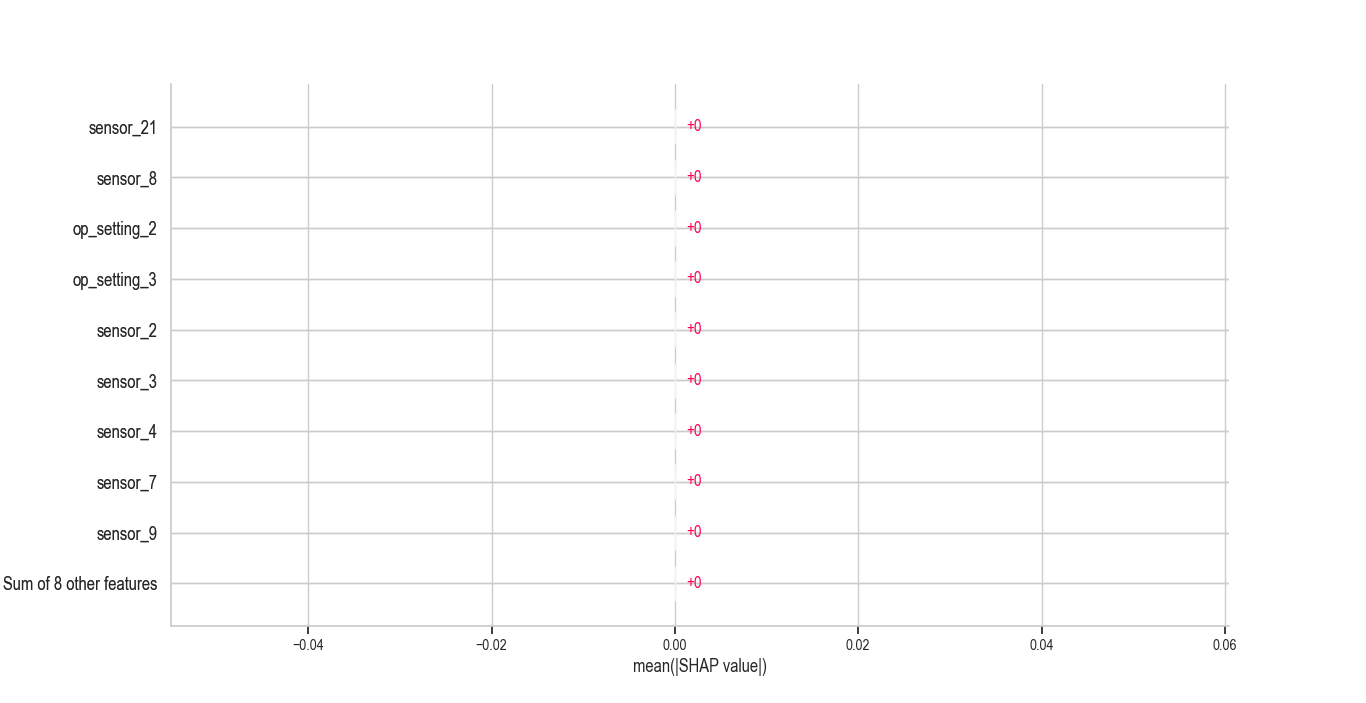
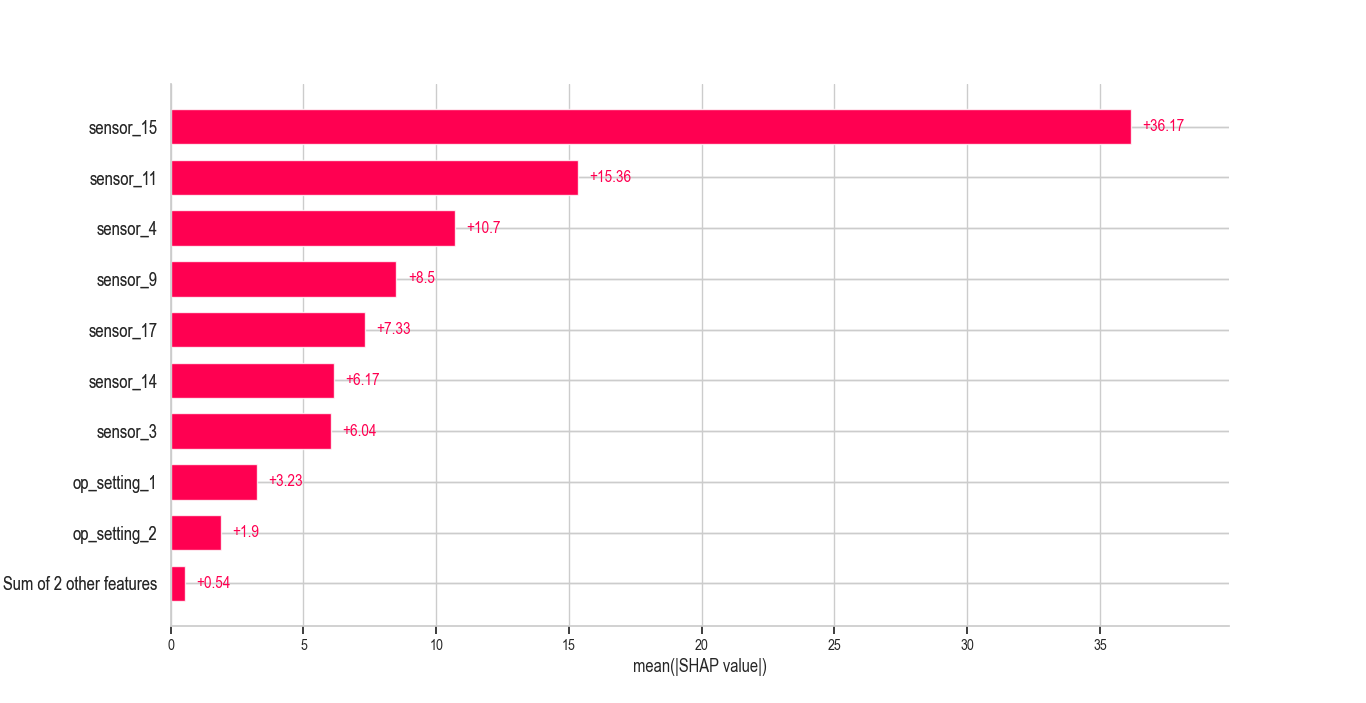
completed model and added api

diff --git a/rul_xgboost.py b/rul_xgboost.py
@@ -14,24 +14,21 @@ from xgboost import XGBRegressor
 from sklearn.model_selection import train_test_split
 from sklearn.metrics import mean_squared_error, mean_absolute_error, r2_score
 from sklearn.feature_selection import VarianceThreshold
-import shap          
-
-data = 'train_FD002.txt'
+import shap
 
 sns.set(style='whitegrid')
 
-# Set path to your train file (adjust as needed)
+# ====================================
+# 📁 Step 2: Load and Prepare Data
+# ====================================
+data = 'train_FD002.txt'
 DATA_TRAIN_PATH = f"data/{data}"
 
-# NASA C-MAPSS column structure
 sensor_cols = [f"sensor_{i}" for i in range(1, 22)]
 op_cols = ["op_setting_1", "op_setting_2", "op_setting_3"]
 cols = ["unit", "time"] + op_cols + sensor_cols
 
-# Load dataset
 sensor_df = pd.read_csv(DATA_TRAIN_PATH, sep="\s+", header=None, names=cols)
-
-# Compute RUL from max cycle
 rul_per_unit = sensor_df.groupby("unit")["time"].transform("max")
 sensor_df["RUL"] = rul_per_unit - sensor_df["time"]
 
@@ -39,17 +36,11 @@ print("✅ Data loaded and RUL computed:")
 print(sensor_df.head())
 
 # ====================================
-# 📊 Step 2: Exploratory Data Analysis
+# 📊 Step 3: Exploratory Data Analysis
 # ====================================
-# Assume `sensor_df` already exists and includes ['unit', 'time', 'op_setting_*', 'sensor_*', 'RUL']
-
-# Display basic info
 print("📊 Dataset Shape:", sensor_df.shape)
 print("🧾 Columns:", sensor_df.columns.tolist())
-print("\n📌 Sample Data:")
-print(sensor_df.head())
 
-# Sensor and operational columns
 sensor_cols = [col for col in sensor_df.columns if col.startswith("sensor_")]
 op_cols = [col for col in sensor_df.columns if col.startswith("op_setting")]
 
@@ -88,9 +79,6 @@ plt.legend()
 plt.grid(True)
 plt.show()
 
-# ====================================
-# 🔍 Step 3: Feature Selection
-# ====================================
 # Correlation Heatmap
 sensor_corr_df = sensor_df[sensor_cols + ['RUL']].corr()
 plt.figure(figsize=(14, 10))
@@ -99,68 +87,42 @@ plt.title("🔍 Sensor & RUL Correlation Heatmap")
 plt.tight_layout()
 plt.show()
 
-# Drop low-variance (flat) sensors
-var_thresh = 1e-4
+# ====================================
+# 🔍 Step 4: Feature Selection
+# ====================================
+var_thresh = 1e-6
 selector = VarianceThreshold(threshold=var_thresh)
 selector.fit(sensor_df[sensor_cols])
 flat_mask = selector.get_support()
 filtered_sensor_cols = list(np.array(sensor_cols)[flat_mask])
-flat_dropped = list(set(sensor_cols) - set(filtered_sensor_cols))
-print(f"🛑 Dropped {len(flat_dropped)} flat sensors:", flat_dropped)
 
-# Drop low-correlation (irrelevant) sensors
 rul_corr = sensor_corr_df['RUL'].drop('RUL')
-weak_corr_sensors = rul_corr[rul_corr.abs() < 0.05].index.tolist()
-print(f"⚠ Dropped {len(weak_corr_sensors)} low-correlation sensors:", weak_corr_sensors)
+weak_corr_sensors = rul_corr[rul_corr.abs() < 0.01].index.tolist()
 
-# Final feature list
 final_sensor_cols = [col for col in filtered_sensor_cols if col not in weak_corr_sensors]
 final_feature_cols = op_cols + final_sensor_cols
+
 print(f"✅ Final features used for modeling: {len(final_feature_cols)}")
 
 # ====================================
-# 🧠 Step 4: Model Training + Evaluation
+# 🧠 Step 5: Model Training + Evaluation
 # ====================================
-# Take last cycle per unit as prediction point
-latest_df = sensor_df.groupby('unit').last().reset_index()
-X = latest_df[final_feature_cols]
-y = latest_df['RUL']
+X = sensor_df[final_feature_cols]
+y = sensor_df['RUL']
 
-# Train-test split
 X_train, X_test, y_train, y_test = train_test_split(X, y, test_size=0.2, random_state=42)
 
-# Train models
 rf = RandomForestRegressor(n_estimators=100, random_state=42)
 xgb = XGBRegressor(n_estimators=100, random_state=42)
 
 rf.fit(X_train, y_train)
 xgb.fit(X_train, y_train)
 
-# Predict
 rf_preds = rf.predict(X_test)
 xgb_preds = xgb.predict(X_test)
 
-# --- Step: Convert to Time Units ---
-cycle_to_day_ratio = 1  # ← adjust if one cycle is 12 hours, etc.
-
-rul_days   = xgb_preds * cycle_to_day_ratio
-rul_months = rul_days / 30
-rul_years  = rul_days / 365
-
-# Combine into dataframe
-rul_summary = pd.DataFrame({
-    'True_RUL (cycles)': y_test,
-    'Predicted_RUL (cycles)': xgb_preds,
-    'RUL_Days': rul_days.round(1),
-    'RUL_Months': rul_months.round(2),
-    'RUL_Years': rul_years.round(3)
-})
-rul_summary['Status'] = ['⚠ FAILED' if day < 1 else '🟢 OK' for day in rul_summary['RUL_Days']]
-print("\n🕒 Human-Readable RUL Predictions:")
-print(rul_summary.head(10))
-
-
 # Evaluate
+
 def evaluate(y_true, y_pred):
     return {
         'RMSE': np.sqrt(mean_squared_error(y_true, y_pred)),
@@ -174,18 +136,46 @@ xgb_results = evaluate(y_test, xgb_preds)
 print("\n📊 Random Forest Results:", rf_results)
 print("📊 XGBoost Results:", xgb_results)
 
-# --- Save report ---
-report_lines = []
-report_lines.append("Remaining Useful Life (RUL) Prediction Summary")
-report_lines.append("=" * 50)
-report_lines.append(f"Generated: {datetime.now().strftime('%Y-%m-%d %H:%M:%S')}")
-report_lines.append("")
-report_lines.append("Top 10 RUL Predictions:")
-report_lines.append("-" * 50)
+# ====================================
+# 🕒 Step 6: Human-Readable RUL + Report
+# ====================================
+cycle_to_day_ratio = 1
+rul_days = xgb_preds * cycle_to_day_ratio
+rul_months = rul_days / 30
+rul_years = rul_days / 365
+
+rul_summary = pd.DataFrame({
+    'True_RUL (cycles)': y_test,
+    'Predicted_RUL (cycles)': xgb_preds,
+    'RUL_Days': rul_days.round(1),
+    'RUL_Months': rul_months.round(2),
+    'RUL_Years': rul_years.round(3)
+})
+
+conditions = [
+    rul_summary['RUL_Days'] < 1,
+    rul_summary['RUL_Days'] <= 90
+]
+choices = ['☠ FAILED', '⚠ DANGER']
+rul_summary['Status'] = np.select(conditions, choices, default='🟢 OK')
+
+print("\n🕒 Human-Readable RUL Predictions:")
+print(rul_summary.head(10))
+
+# Save report
+os.makedirs("report", exist_ok=True)
+report_lines = [
+    "Remaining Useful Life (RUL) Prediction Summary",
+    "=" * 50,
+    f"Generated: {datetime.now().strftime('%Y-%m-%d %H:%M:%S')}",
+    "",
+    "Top 10 RUL Predictions:",
+    "-" * 50
+]
 for idx, row in rul_summary.head(10).iterrows():
-    line = (f"Unit #{idx:<3} | True RUL: {int(row['True_RUL (cycles)']):<3} cycles | "
-            f"Predicted: {row['Predicted_RUL (cycles)']:.1f} cycles | "
-            f"Days Left: {row['RUL_Days']:.1f} | Months: {row['RUL_Months']:.2f} | "
+    line = (f"Index {idx:<3} | True RUL: {int(row['True_RUL (cycles)']):<3} | "
+            f"Predicted: {row['Predicted_RUL (cycles)']:.1f} | "
+            f"Days: {row['RUL_Days']:.1f} | Months: {row['RUL_Months']:.2f} | "
             f"Years: {row['RUL_Years']:.3f} | Status: {row['Status']}")
     report_lines.append(line)
 
@@ -199,7 +189,7 @@ with open("report/summary_rul_report.txt", "w", encoding="utf-8") as f:
         f.write(line + "\n")
 
 # ====================================
-# 📈 Step 5: Plot Predictions
+# 📊 Step 7: Plot Predictions
 # ====================================
 plt.figure(figsize=(12, 6))
 
@@ -236,26 +226,17 @@ plt.xlabel("Remaining Useful Life (Months)")
 plt.tight_layout()
 plt.show()
 
-
 # ====================================
-# 🧮 Step 6: SHAP Explanation for XGBoost
+# 🧮 Step 8: SHAP Explanation (XGBoost)
 # ====================================
-print("\n🔍  SHAP Explanations for XGBoost")
-
-# • Use the native booster for robustness
+print("\n🔍 SHAP Explanations for XGBoost")
 explainer = shap.TreeExplainer(xgb.get_booster())
+shap_values = explainer(X_train)
 
-# • Get an Explanation object (shap_values + base value) for the training set
-shap_values = explainer(X_train)        # <- new API, no .shap_values()
-
-# --- 6‑1: Global feature importance (bar plot) ---
 shap.plots.bar(shap_values, max_display=10)
-
-# --- 6‑2: Beeswarm for distribution & direction ---
 shap.plots.beeswarm(shap_values, max_display=10)
 
-# --- 6‑3: Force plot for one prediction ---
-idx = 0                                 # first test sample
-sample = X_test.iloc[[idx]]             # keep as DataFrame (2‑D)
-sample_sv = explainer(sample)           # returns an Explanation
-shap.plots.force(sample_sv)             # works inline in notebooks
+idx = 0
+sample = X_test.iloc[[idx]]
+sample_sv = explainer(sample)
+shap.plots.force(sample_sv)

diff --git a/rul_api_fastapi.py b/rul_api_fastapi.py
@@ -1,0 +1,91 @@
+# ============================================
+# 🚀 RUL Prediction API (FastAPI + XGBoost)
+# ============================================
+from fastapi import FastAPI, HTTPException
+from pydantic import BaseModel
+import pandas as pd
+import numpy as np
+import joblib
+import uvicorn
+from xgboost import XGBRegressor
+from sklearn.ensemble import RandomForestRegressor
+from typing import List
+
+# Load trained model and feature columns
+xgb_model = joblib.load("models/xgb_model.pkl")
+rf_model = joblib.load("models/rf_model.pkl")
+feature_cols = joblib.load("models/feature_columns.pkl")
+
+# Initialize FastAPI
+app = FastAPI(title="RUL Prediction API")
+
+# Define input schema
+class SensorInput(BaseModel):
+    op_setting_1: float
+    op_setting_2: float
+    op_setting_3: float
+    sensor_1: float
+    sensor_2: float
+    sensor_3: float
+    sensor_4: float
+    sensor_5: float
+    sensor_6: float
+    sensor_7: float
+    sensor_8: float
+    sensor_9: float
+    sensor_11: float
+    sensor_12: float
+    sensor_13: float
+    sensor_14: float
+    sensor_15: float
+    sensor_17: float
+    sensor_18: float
+    sensor_19: float
+    sensor_20: float
+    sensor_21: float
+
+class PredictionOutput(BaseModel):
+    rul_cycles: float
+    rul_days: float
+    rul_months: float
+    rul_years: float
+    status: str
+    model: str
+
+# Helper function for status
+
+def get_status(days):
+    if days < 1:
+        return "☠ FAILED"
+    elif days <= 90:
+        return "⚠ DANGER"
+    else:
+        return "🟢 OK"
+
+# Route to predict RUL using specified model
+@app.post("/predict", response_model=PredictionOutput)
+def predict_rul(data: SensorInput, model: str = "xgb"):
+    input_df = pd.DataFrame([data.dict()])
+    input_df = input_df[feature_cols]  # Align column order
+
+    if model == "xgb":
+        pred = xgb_model.predict(input_df)[0]
+    elif model == "rf":
+        pred = rf_model.predict(input_df)[0]
+    else:
+        raise HTTPException(status_code=400, detail="Model must be 'xgb' or 'rf'")
+
+    cycle_to_day_ratio = 1
+    rul_days = pred * cycle_to_day_ratio
+    return PredictionOutput(
+        rul_cycles=round(pred, 2),
+        rul_days=round(rul_days, 2),
+        rul_months=round(rul_days / 30, 2),
+        rul_years=round(rul_days / 365, 3),
+        status=get_status(rul_days),
+        model=model.upper()
+    )
+
+# Run using: uvicorn rul_api:app --reload
+if __name__ == "__main__":
+    uvicorn.run("rul_api:app", host="0.0.0.0", port=8000, reload=True)
